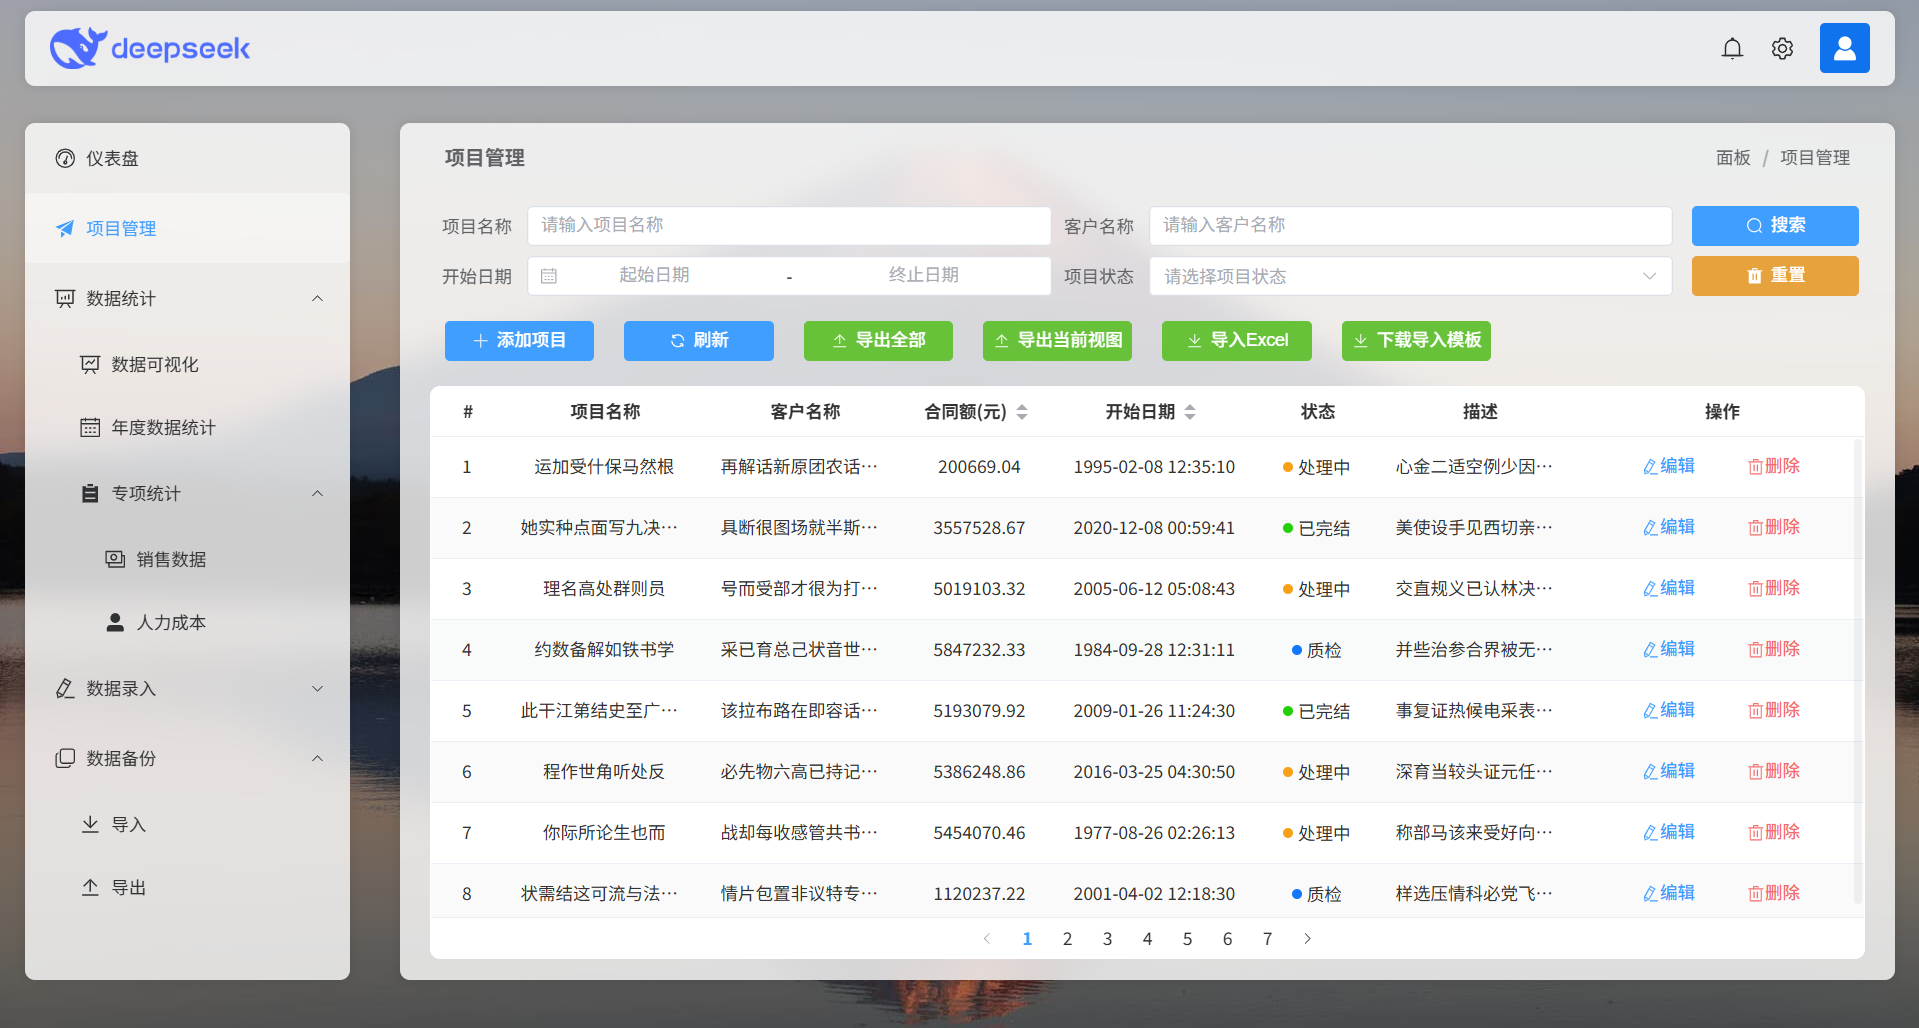
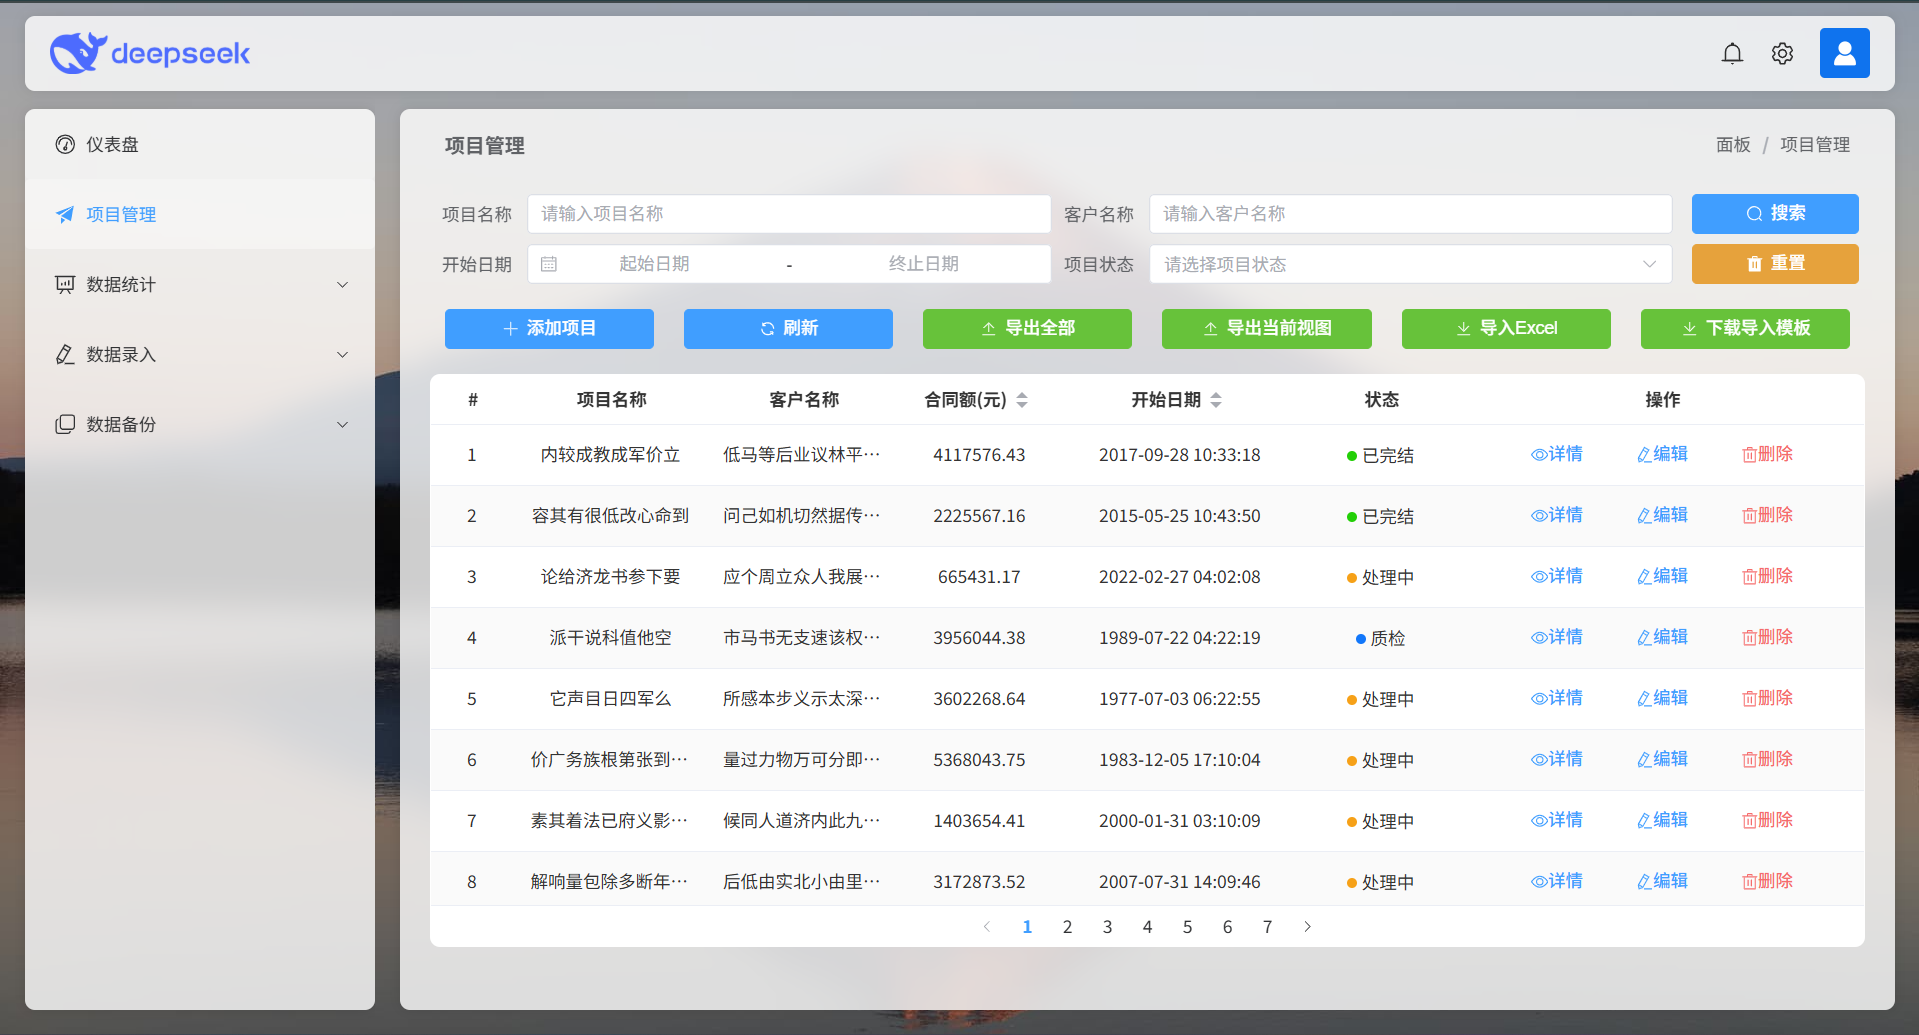
README.md

diff --git a/src/views/Panel/Project.vue b/src/views/Panel/Project.vue
@@ -89,7 +89,7 @@ const handleProjectAddSubmit = (model: ProjectAddFormModel) => {
 
 const buttonRecords: ButtonAreaRecord[] = [
     {
-        span: 3,
+        span: 4,
         text: "添加项目",
         icon: 'Plus',
         type: 'primary',
@@ -216,35 +216,35 @@ const buttonRecords: ButtonAreaRecord[] = [
     )
     },
     {
-        span: 3,
+        span: 4,
         text: "刷新",
         icon: 'Refresh',
         type: 'primary',
         method: () => fetchData()
     },
     {
-        span: 3,
+        span: 4,
         text: "导出全部",
         icon: 'Upload',
         type: 'success',
         method: () => {}
     },
     {
-        span: 3,
+        span: 4,
         text: "导出当前视图",
         icon: 'Upload',
         type: 'success',
         method: () => {}
     },
     {
-        span: 3,
+        span: 4,
         text: "导入Excel",
         icon: 'Download',
         type: 'success',
         method: () => {}
     },
     {
-        span: 3,
+        span: 4,
         text: "下载导入模板",
         icon: 'Download',
         type: 'success',
@@ -258,33 +258,34 @@ const tableProps: TableProp[] = [
     {
         label: '项目名称',
         prop: 'name',
-        width: 200,
+        minWidth: '12.5%',
     },
     {
         label: '客户名称',
         prop: 'client',
-        width: 200,
+        minWidth: '12.5%',
     },
     {
         label: '合同额(元)',
         prop: 'amount',
-        width: 120,
+        minWidth: '10%',
         sortable: 'custom'
     },
     {
         label: '开始日期',
         prop: 'startDate',
-        width: 160,
+        minWidth: '15%',
         sortable: 'custom'
     },
     {
         label: '状态',
         prop: 'status',
-        width: 100
+        minWidth: '10%'
     },
     {
         label: '操作',
         prop: 'operation',
+        minWidth: '25%'
     },
 ]
 

diff --git a/src/components/GeneralTable/CustomTable.vue b/src/components/GeneralTable/CustomTable.vue
@@ -3,8 +3,9 @@
 export interface TableProp {
     label: string
     prop: string
-    width?: number
+    width?: number | string
     sortable?: boolean | string
+    minWidth?: string
 }
 export interface TableData {}
 export interface CustomTableProps {
@@ -51,7 +52,7 @@ defineExpose({ scrollToTop })
                 label="#" 
                 prop="index" 
                 v-if="props.showIndex"
-                :width="60"
+                minWidth="5%"
             >
                 <template #default="scope">
                     {{ (paginationProps.currentPage - 1) * paginationProps.pageSize + scope.$index + 1  }}
@@ -63,6 +64,7 @@ defineExpose({ scrollToTop })
                 :label="item.label"
                 :prop="item.prop"
                 :width="item.width"
+                :min-width="item.minWidth"
                 :sortable="item.sortable"
             >
                 <template #default="scope">

diff --git a/src/layouts/index.vue b/src/layouts/index.vue
@@ -33,9 +33,20 @@ const sideBarRoutes = router.options.routes.filter(route => route.path === '/pan
   /* margin: 6px 0; */
   padding: 5px 10px;
 }
-.el-main, .el-aside {
-  padding: 40px 20px;
+/* .el-main, .el-aside {
+  padding: 30px 20px;
+} */
+.el-main {
+  padding-right: 20px;
+  padding-top: 25px;
 }
+
+.el-aside {
+  padding-left: 20px;
+  padding-top: 25px;
+  padding-bottom: 20px;
+}
+
 .panel-layout {
   background-image: url('@/assets/bg/panel-bg.jpg');
   background-size: cover;

diff --git a/vite.config.ts b/vite.config.ts
@@ -62,7 +62,7 @@ export default defineConfig(({ command }) => {
       }),
 
       viteMockServe({
-        mockPath: 'src/mock',             // mock 文件夹路径
+        mockPath: 'src/mocks',             // mock 文件夹路径
         enable: command === 'serve',  // 仅开发模式启用
         watchFiles: true                   // 自动热更新 mock 文件
       }),

diff --git a/src/mocks/project.ts b/src/mocks/project.ts
@@ -1,5 +1,5 @@
 import { MockMethod } from 'vite-plugin-mock';
-import mockResponse from '@/mock/wrapper';
+import mockResponse from '@/mocks/wrapper';
 import Mock from 'mockjs';
 import { ProjectRequestParams } from 'types/project';
 

diff --git a/src/mocks/dashboard.ts b/src/mocks/dashboard.ts
@@ -1,5 +1,5 @@
 import { MockMethod } from 'vite-plugin-mock';
-import mockResponse from '@/mock/wrapper';
+import mockResponse from '@/mocks/wrapper';
 import { SignUpData } from 'types/dashboard';
 
 export default [

diff --git a/src/components/Base/CustomCarousel.vue b/src/components/Base/CustomCarousel.vue
@@ -1,8 +1,5 @@
 <script setup lang="ts">
 
-// const carouselList = ref<string[]>([
-//     Carousel1, Carousel2, Carousel3
-// ])
 export interface CustomCarouselProps {
     imageList: string[]
     height?: string

diff --git a/src/mocks/auth.ts b/src/mocks/auth.ts
@@ -1,5 +1,5 @@
 import { MockMethod } from 'vite-plugin-mock';
-import mockResponse from '@/mock/wrapper';
+import mockResponse from '@/mocks/wrapper';
 
 export default [
   {

diff --git a/README.md b/README.md
@@ -4,6 +4,10 @@
 
 ![登录界面](/samples/login.png)
 
+### 仪表盘界面
+
+![仪表盘界面](/samples/dashboard.png)
+
 ### 表格界面
 
 ![表格界面](/samples/table.png)
